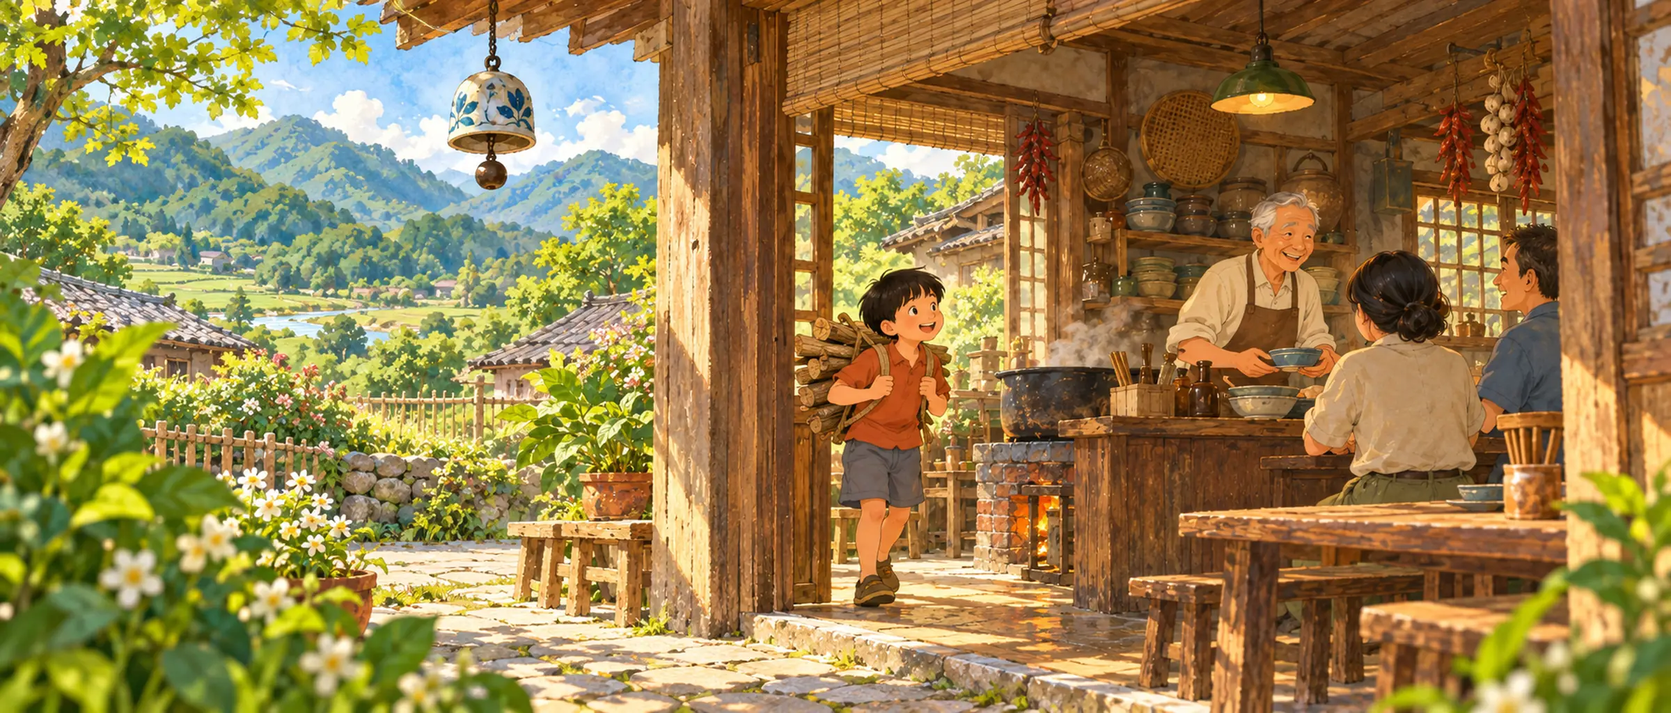
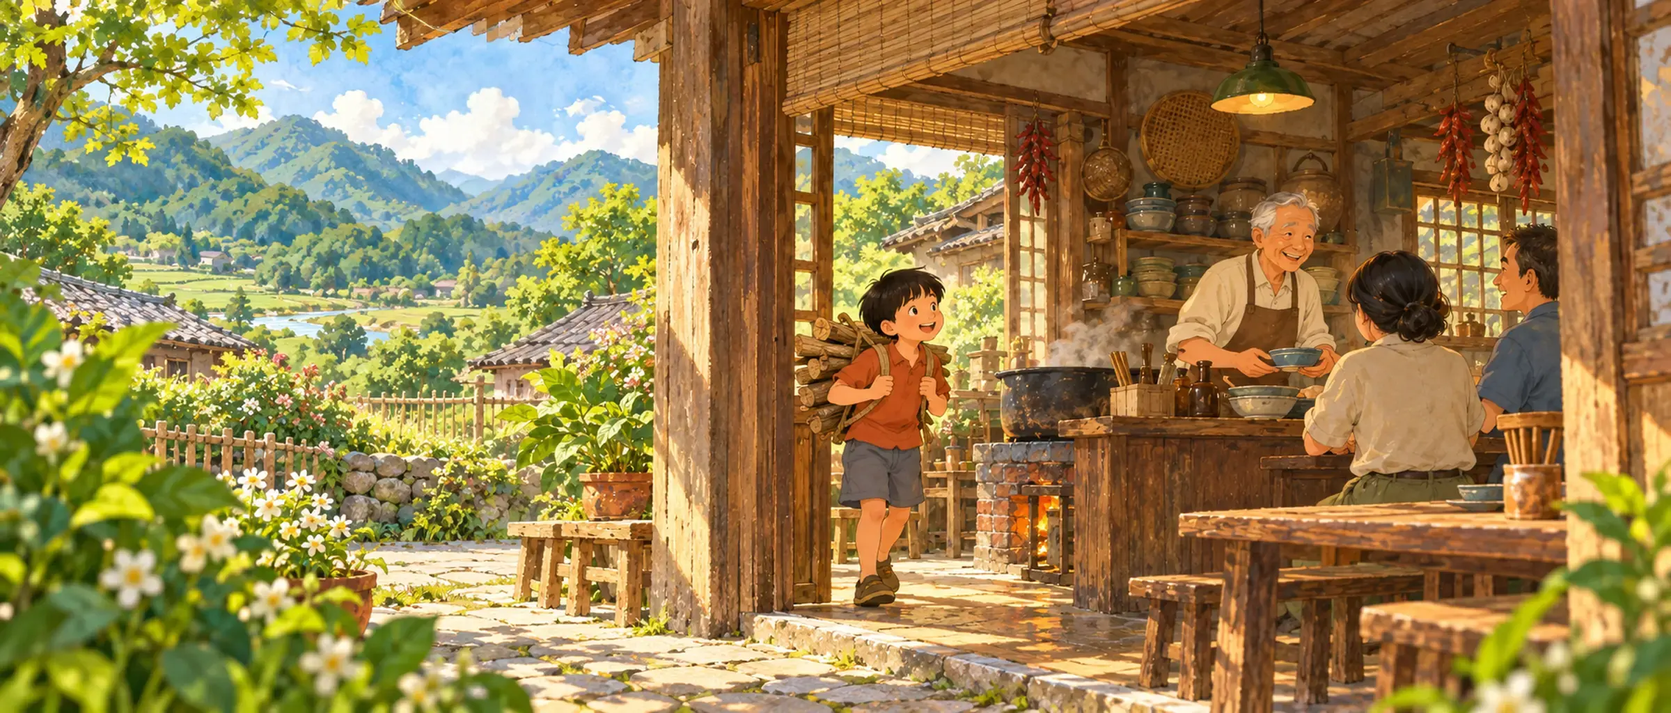
feat(mandarin): 第1幕點風鈴有風吹、陶鈴阻尼擺動與合成鈴聲（Codex，Claude 驗收）

Changed region(s): [[0.25, 0.0, 0.3438, 0.2812]]

diff --git a/apps/mandarin/src/activities/firstPersonIllustrated.js b/apps/mandarin/src/activities/firstPersonIllustrated.js
@@ -1,3 +1,4 @@
+import { mountChimeWind } from './firstPersonChime.js';
 import { illustrationLayout } from './firstPersonLayout.js';
 import { mountOperation } from './firstPersonInteraction.js';
 import { FIRST_PERSON_ILLUSTRATIONS } from '../data/firstPersonLesson.js';
@@ -25,7 +26,8 @@ export async function mountFirstPersonScene(host, { phase, onProject, onMode, ca
       p.style.left = `${point[0] + (kind === 'fire' ? 0 : i - 2) * 1.1}%`; p.style.top = `${point[1]}%`; p.style.animationDelay = `${-i * .51}s`; effects.append(p);
     }
   }
-  const interaction = mountOperation(plane, { scene: phase, state: operation, changed: onOperation, chime: onChime, focus(x) { if(phase.act===4 && x===49)x=host.clientWidth/host.clientHeight<1.4?30:52; const iw=illustrationLayout(host.clientWidth,host.clientHeight).imageWidth; if(iw>host.clientWidth) { target=Math.max(0,Math.min(1,(iw*x/100-host.clientWidth/2)/(iw-host.clientWidth))); pan=target; render(); } }, heat(value) { effects.style.opacity = '1'; effects.style.setProperty('--heat', value); [...effects.children].forEach((el,i) => { const fire=el.classList.contains('fp-art-fire'); el.style.visibility = !fire && (value === 0 || (el.classList.contains('fp-art-bubble') && i % 5 >= Math.ceil(value * 5))) ? 'hidden' : ''; el.style.opacity=String(fire?Math.max(1/3,value):value); if(fire) el.style.scale=String(Math.max(1/3,value)); }); if(phase.act === 4) { images[0].style.opacity=String(value); images[1].style.opacity=String(1-value); images[0].style.transition=images[1].style.transition=(calm || media.matches)?'none':'opacity .8s ease'; } }, demonstrate(active) { images[0].style.opacity=active?'0':'1'; images[1].style.opacity=active?'1':'0'; } });
+  const wind = phase.act === 1 ? mountChimeWind(plane, base, () => calm || media.matches) : null;
+  const interaction = mountOperation(plane, { scene: phase, state: operation, changed: onOperation, chime() { wind?.blow(); onChime?.(); }, focus(x) { if(phase.act===4 && x===49)x=host.clientWidth/host.clientHeight<1.4?30:52; const iw=illustrationLayout(host.clientWidth,host.clientHeight).imageWidth; if(iw>host.clientWidth) { target=Math.max(0,Math.min(1,(iw*x/100-host.clientWidth/2)/(iw-host.clientWidth))); pan=target; render(); } }, heat(value) { effects.style.opacity = '1'; effects.style.setProperty('--heat', value); [...effects.children].forEach((el,i) => { const fire=el.classList.contains('fp-art-fire'); el.style.visibility = !fire && (value === 0 || (el.classList.contains('fp-art-bubble') && i % 5 >= Math.ceil(value * 5))) ? 'hidden' : ''; el.style.opacity=String(fire?Math.max(1/3,value):value); if(fire) el.style.scale=String(Math.max(1/3,value)); }); if(phase.act === 4) { images[0].style.opacity=String(value); images[1].style.opacity=String(1-value); images[0].style.transition=images[1].style.transition=(calm || media.matches)?'none':'opacity .8s ease'; } }, demonstrate(active) { images[0].style.opacity=active?'0':'1'; images[1].style.opacity=active?'1':'0'; } });
   // Only the next act is warmed. No global cache that keeps all four acts alive.
   const preloads = (FIRST_PERSON_ILLUSTRATIONS[phase.act + 1]?.images || []).map(file => { const img = new Image(); img.src = base + file; return img; });
   const reduced = () => calm || media.matches;
@@ -56,6 +58,8 @@ export async function mountFirstPersonScene(host, { phase, onProject, onMode, ca
   }
   function resume() {
     cancelAnimationFrame(frame); previous = 0;
+    if (document.hidden) wind?.stop();
+    else wind?.updateMotion();
     effects.classList.toggle('fp-art-still', reduced() || paused || document.hidden);
     if (reduced()) { pan = target; if (phase.act === 2) images.forEach((img, i) => { img.style.opacity = i ? '0' : '1'; });  }
     render(); if (!paused && !document.hidden) frame = requestAnimationFrame(tick);
@@ -70,7 +74,7 @@ export async function mountFirstPersonScene(host, { phase, onProject, onMode, ca
     observeAction() { resume(); },
     setOptions(options) { calm = Boolean(options.calm); paused = Boolean(options.paused); plane.inert = paused; resume(); },
     dispose() {
-      disposed = true; interaction.dispose(); cancelAnimationFrame(frame); resize.disconnect(); media.removeEventListener('change', resume); document.removeEventListener('visibilitychange', resume);
+      disposed = true; wind?.dispose(); interaction.dispose(); cancelAnimationFrame(frame); resize.disconnect(); media.removeEventListener('change', resume); document.removeEventListener('visibilitychange', resume);
       [...images, ...preloads].forEach(img => { img.onload = img.onerror = null; img.removeAttribute('src'); }); layer.remove(); host.classList.remove('is-illustrated', 'fp-image-failed');
     },
   };

diff --git a/apps/mandarin/src/activities/firstPersonChime.js b/apps/mandarin/src/activities/firstPersonChime.js
@@ -1,0 +1,74 @@
+// Gesture-only synthesis. A disabled effect never asks for an AudioContext.
+export function playChime(enabled, getAudio, random = Math.random) {
+  if (!enabled) return;
+  try {
+    const audio = getAudio();
+    if (!audio) return;
+    // Called synchronously in the click handler, including the first gesture.
+    audio.resume().catch(() => {});
+    const sources = [];
+    const now = audio.currentTime;
+    for (const [strike, level] of [[.16, 1], [.62, .62], [1.09, .34]]) {
+      const fundamental = 1250 + (random() - .5) * 90;
+      for (const [ratio, weight] of [[1, 1], [2.76, .36], [5.40, .16], [8.93, .07]]) {
+        const oscillator = audio.createOscillator(), gain = audio.createGain();
+        sources.push(oscillator);
+        oscillator.frequency.value = fundamental * ratio;
+        const start = now + strike;
+        gain.gain.setValueAtTime(.00001, start);
+        gain.gain.exponentialRampToValueAtTime(.045 * weight * level, start + .006);
+        gain.gain.exponentialRampToValueAtTime(.00001, start + 2);
+        oscillator.connect(gain); gain.connect(audio.destination);
+        oscillator.onended = () => { oscillator.disconnect(); gain.disconnect(); };
+        oscillator.start(start); oscillator.stop(start + 2.02);
+      }
+    }
+    const buffer = audio.createBuffer(1, Math.ceil(audio.sampleRate * 1.5), audio.sampleRate);
+    const data = buffer.getChannelData(0);
+    for (let i = 0; i < data.length; i++) data[i] = random() * 2 - 1;
+    const source = audio.createBufferSource(), filter = audio.createBiquadFilter(), gain = audio.createGain();
+    sources.push(source);
+    source.buffer = buffer; filter.type = 'bandpass'; filter.frequency.value = 750; filter.Q.value = 1;
+    gain.gain.setValueAtTime(.00001, now);
+    gain.gain.linearRampToValueAtTime(.012, now + .3);
+    gain.gain.exponentialRampToValueAtTime(.00001, now + 1.5);
+    source.connect(filter); filter.connect(gain); gain.connect(audio.destination);
+    source.onended = () => { source.disconnect(); filter.disconnect(); gain.disconnect(); };
+    source.start(now); source.stop(now + 1.5);
+    return () => { for (const node of sources) { try { node.stop(); node.disconnect(); } catch {} } };
+  } catch { /* Audio support must not block the operation. */ }
+}
+
+export const chimeMotion = reduced => reduced ? 'fp-chime-glow' : 'fp-wind-active';
+export function mountChimeWind(plane, base, reduced) {
+  const layer = document.createElement('div'); layer.className = 'fp-chime-weather';
+  layer.setAttribute('aria-hidden', 'true');
+  const bell = document.createElement('div'); bell.className = 'fp-ceramic-chime';
+  for (const part of ['shell', 'clapper']) {
+    const img = new Image(); img.src = base + 'sprites/chime.webp'; img.alt = ''; img.draggable = false;
+    img.className = `fp-chime-${part}`; bell.append(img);
+  }
+  layer.append(bell);
+  for (let i = 0; i < 3; i++) {
+    const streak = document.createElement('i'); streak.className = 'fp-wind-streak'; streak.style.setProperty('--i', i); layer.append(streak);
+  }
+  // Feathered, source-aligned foliage only: no people or architecture in these patches.
+  for (const [x,y,w,h] of [[0,0,20,17],[0,69,17,31],[0,38,8,25]]) {
+    const leaf = document.createElement('div'); leaf.className = 'fp-wind-foliage';
+    Object.assign(leaf.style, {left:`${x}%`, top:`${y}%`, width:`${w}%`, height:`${h}%`, backgroundImage:`url("${base}act1-entrance.webp")`, backgroundSize:`${10000/w}% ${10000/h}%`, backgroundPosition:`${x/(100-w)*100}% ${y/(100-h)*100}%`});
+    layer.append(leaf);
+  }
+  plane.append(layer);
+  let timer;
+  function stop() { clearTimeout(timer); layer.classList.remove('fp-wind-active','fp-chime-glow'); }
+  return {
+    blow() {
+      stop(); void layer.offsetWidth;
+      layer.classList.add(chimeMotion(reduced()));
+      timer = setTimeout(stop, reduced() ? 650 : 2500);
+    },
+    stop,
+    updateMotion() { if (reduced() && layer.classList.contains('fp-wind-active')) { layer.classList.remove('fp-wind-active'); layer.classList.add('fp-chime-glow'); } },
+    dispose() { stop(); layer.remove(); },
+  };
+}

diff --git a/apps/mandarin/src/activities/firstPersonInteraction.js b/apps/mandarin/src/activities/firstPersonInteraction.js
@@ -25,17 +25,17 @@ export function mountOperation(plane, { scene, state, changed, heat, demonstrate
   const base = `${(import.meta.env?.BASE_URL || '/')}assets/first-person/115AG3H04/sprites/`;
   const layer = document.createElement('div'); layer.className = 'fp-operation'; plane.append(layer);
   let selected = null, dragging = null, suppress = false, timer, busy = false, disposed = false;
-  const status = document.createElement('div'); status.className = 'fp-operation-status'; status.setAttribute('role','status');
+  const status = document.createElement('div'); status.className = 'fp-operation-status'; status.setAttribute('role','status'); status.setAttribute('aria-live','polite');
   const message = document.createElement('span'); status.append(message, SpeakButton({text:()=>message.textContent})); plane.parentElement.parentElement.append(status);
   const objects = [], targets = [];
   function item(label, sprite, x, y, action, width = 10, ratio = .5, target = false) {
     const el = document.createElement('button'); el.type='button'; el.className=`fp-object ${target ? 'fp-drop-target' : ''}`; el.setAttribute('aria-label',label); el.dataset.action=action;
     el.style.width=`${width}%`; el.style.aspectRatio=String(1/ratio); el.style.left=`${x}%`; el.style.top=`${y}%`;
-    if(sprite) { const img=new Image(); img.src=base+sprite+'.webp'; img.alt=''; img.draggable=false; img.onerror=()=>{ img.remove(); el.textContent=label; }; el.append(img); } else el.classList.add('fp-glow');
+    if(sprite) { const img=new Image(); img.src=base+sprite+'.webp'; img.alt=''; img.draggable=false; img.onerror=()=>{ img.remove(); el.textContent=label; }; el.append(img); } else if(action !== 'bell') el.classList.add('fp-glow');
     if(action.startsWith('wood-')) el.style.rotate=`${woodAngle(scene.act,Number(action.slice(-1))-1)}deg`;
     layer.append(el); const obj={el,x,y,action,label}; (target?targets:objects).push(obj);
     el.onclick=()=>{ if(suppress) return; if(target) drop(obj); else select(obj); };
-    if(!target) {
+    if(!target && action !== 'bell') {
       el.onpointerdown=e=>{ if(e.button!==0) return; if(busy || el.disabled || dragging)return; e.stopPropagation(); dragging={obj,id:e.pointerId,x:e.clientX,y:e.clientY,moved:false,...scoopGesture({}, {x:(e.clientX-plane.getBoundingClientRect().left)/plane.getBoundingClientRect().width*100,y:(e.clientY-plane.getBoundingClientRect().top)/plane.getBoundingClientRect().height*100})}; el.setPointerCapture(e.pointerId); layer.classList.add('is-dragging'); if(scene.act===2 && dragging.dipped)setSprite(obj,'ladle-full'); };
       el.onpointermove=e=>{
         if(!dragging || dragging.id!==e.pointerId)return;
@@ -66,9 +66,9 @@ export function mountOperation(plane, { scene, state, changed, heat, demonstrate
   function feedback(text){ message.textContent=text; }
   function commit(action){ if(!operate(scene,state,action)){ feedback('慢慢來，先完成目前的步驟。'); return false; } selected=null; if(scene.act===1)focus?.(operationComplete(scene,state)?61:33); if(scene.act===4 && action==='demo')focus?.(innerWidth/innerHeight>=1.4?52:73); heat(heatFor(scene,state)); changed(); render(); return true; }
   function select(o){
+    if(scene.act===1 && o.action==='bell'){ chime(); if(state.step===0) commit('bell'); feedback('風吹過，風鈴響了'); return; }
     if(busy || operationComplete(scene,state))return;
     if(scene.act===2){ scoopAnimation(o); return; }
-    if(scene.act===1 && o.action==='bell'){ chime(); o.el.classList.remove('fp-swing'); void o.el.offsetWidth; o.el.classList.add('fp-swing'); if(state.step===0) commit('bell'); else feedback('風鈴輕輕擺動。'); return; }
     if(scene.act===3){ if(o.action==='pot') feedback('水面還在冒泡。'); if(o.action==='ladle') feedback('你剛才用勺子舀了，水仍在滾。'); if(commit(o.action) && o.action==='fire') { layer.classList.add('fp-discovery'); feedback('你找到了鍋下的線索。'); } return; }
     if(scene.act===4 && state.step===0){
       if(timer) return; demonstrate(true); feedback('先看師傅使用工具，再換你試試。');

diff --git a/apps/mandarin/src/styles/first-person.css b/apps/mandarin/src/styles/first-person.css
@@ -219,3 +219,30 @@ body.fp-immersive #main-content { width:100%; max-width:none; margin:0; padding:
 .fp-card-feedback { white-space:normal; overflow-wrap:anywhere; }
 .fp-page .fp-operation-status { height:44px; min-height:44px; white-space:normal; overflow:auto; }
 .fp-page .fp-operation-status>span { overflow:visible; white-space:normal; }
+/* First act only: a source-aligned ceramic chime and brief gust. */
+.fp-chime-weather { position:absolute; inset:0; pointer-events:none; z-index:3; }
+.fp-ceramic-chime { position:absolute; left:26.5%; top:0; width:6%; height:27.1484375%; transform-origin:50% 0; }
+.fp-ceramic-chime img { position:absolute; inset:0; width:100%; height:100%; }
+.fp-chime-shell { clip-path:inset(0 0 19% 0); }
+.fp-chime-clapper { clip-path:inset(81% 0 0 0); transform-origin:50% 79%; }
+.fp-wind-active .fp-ceramic-chime { animation:fp-ceramic-swing 2.5s linear; }
+.fp-wind-active .fp-chime-clapper { animation:fp-clapper-lag 2.5s linear; }
+@keyframes fp-ceramic-swing { 0%,100% { rotate:0deg; } 6.4% { rotate:-18deg; } 15% { rotate:0deg; } 24.8% { rotate:13deg; } 34% { rotate:0deg; } 43.6% { rotate:-9deg; } 54% { rotate:0deg; } 64% { rotate:5deg; } 76% { rotate:-3deg; } 88% { rotate:1deg; } }
+@keyframes fp-clapper-lag { 0%,100% { rotate:0deg; } 9% { rotate:9deg; } 28% { rotate:-7deg; } 47% { rotate:5deg; } 68% { rotate:-3deg; } 90% { rotate:1deg; } }
+.fp-wind-streak { position:absolute; left:0; top:calc(28% + var(--i)*13%); width:18%; height:5%; border-top:2px solid #fff8e3; border-radius:50%; filter:blur(1px); opacity:0; }
+.fp-wind-active .fp-wind-streak { animation:fp-gust 1.8s ease-out both; animation-delay:calc(var(--i)*.18s); }
+@keyframes fp-gust { 0% { opacity:0; transform:translateX(-110%); } 22% { opacity:.38; } 75% { opacity:.2; } 100% { opacity:0; transform:translateX(470%); } }
+.fp-wind-foliage { position:absolute; opacity:0; transform-origin:50% 100%; mask-image:linear-gradient(to right,#000 65%,transparent),linear-gradient(to bottom,#000 65%,transparent); mask-composite:intersect; }
+.fp-wind-active .fp-wind-foliage { animation:fp-foliage-gust 2.5s ease-in-out; }
+@keyframes fp-foliage-gust { 0%,100% { opacity:0; transform:skewX(0); } 15%,45% { opacity:1; transform:skewX(1deg); } 30%,65% { opacity:1; transform:skewX(-.7deg); } 85% { opacity:1; transform:skewX(.3deg); } }
+.fp-operation .fp-object[data-action="bell"] { animation:none; filter:none; cursor:pointer; }
+.fp-operation .fp-object[data-action="bell"]::after { display:none; }
+.fp-chime-glow .fp-ceramic-chime { animation:fp-chime-flash .65s ease-out; }
+@keyframes fp-chime-flash { 30% { filter:drop-shadow(0 0 12px #fff0ab); } 100% { filter:none; } }
+/* The existing calm blanket disables animations; a static brief glow still appears. */
+.fp-calm .fp-chime-glow .fp-ceramic-chime { filter:drop-shadow(0 0 12px #fff0ab); }
+@media(prefers-reduced-motion:reduce) {
+ .fp-chime-weather .fp-wind-streak,.fp-chime-weather .fp-wind-foliage { display:none; }
+ .fp-chime-weather .fp-ceramic-chime,.fp-chime-weather .fp-chime-clapper { animation:none; }
+ .fp-chime-glow .fp-ceramic-chime { filter:drop-shadow(0 0 12px #fff0ab); }
+}

diff --git a/apps/mandarin/src/pages/FirstPersonPage.js b/apps/mandarin/src/pages/FirstPersonPage.js
@@ -1,3 +1,4 @@
+import { playChime } from '../activities/firstPersonChime.js';
 import { moodFor, subtitlePlan, subtitlesForStep, createCardOrder } from '../activities/firstPersonPresentation.js';
 import { operationComplete } from '../activities/firstPersonInteraction.js';
 import { h, clear } from '../utils/dom.js';
@@ -26,7 +27,7 @@ export function FirstPersonPage(lesson) {
   try { const s = JSON.parse(localStorage.getItem(PREF_KEY)); prefs = { sound: s?.sound === true, calm: s?.calm === true }; } catch { /* 預設 */ }
   let world, generation = 0, disposed = false, replay = null, lastClue = null, feedback = '', wrong = false, readingVisible = false;
   let subtitle = null, subtitleTimer, subtitleAfter, subtitleQueue = [];
-  let saved = true, audio, ambientGain, ambientSource, modal, observationTimer;
+  let stopChime, saved = true, audio, ambientGain, ambientSource, modal, observationTimer;
   let scene, state, sources, currentView, idleTimer, teacherAccess = false, actionQuestion = null;
   const reduce = matchMedia('(prefers-reduced-motion: reduce)');
   const rootBody = h('div', { class: 'fp-shell' }); root.append(rootBody);
@@ -35,7 +36,7 @@ export function FirstPersonPage(lesson) {
   function savePrefs() { try { localStorage.setItem(PREF_KEY, JSON.stringify(prefs)); } catch { /* 這次仍生效 */ } }
   function sound() {
     const enabled = prefs.sound && !document.hidden && !modal?.open;
-    if (!enabled) { if (ambientGain && audio) ambientGain.gain.setTargetAtTime(0, audio.currentTime, .15); return; }
+    if (!enabled) { stopChime?.(); stopChime = null; if (ambientGain && audio) ambientGain.gain.setTargetAtTime(0, audio.currentTime, .15); return; }
     try {
       const AC = window.AudioContext || window.webkitAudioContext; if (!AC) return;
       audio ||= new AC(); audio.resume().catch(() => {});
@@ -49,7 +50,11 @@ export function FirstPersonPage(lesson) {
       ambientGain.gain.setTargetAtTime(scene?.id === 'root' ? .008 : scene?.id === 'welcome' ? .005 : .022, audio.currentTime, .5);
     } catch { /* 音訊不影響學習 */ }
   }
-  function chime() { if (!prefs.sound) return; try { const AC=window.AudioContext || window.webkitAudioContext; audio ||= new AC(); audio.resume().catch(()=>{}); const osc=audio.createOscillator(), gain=audio.createGain(); osc.frequency.value=1320; gain.gain.setValueAtTime(.035,audio.currentTime); gain.gain.exponentialRampToValueAtTime(.001,audio.currentTime+.7); osc.connect(gain); gain.connect(audio.destination); osc.start(); osc.stop(audio.currentTime+.7); } catch {} }
+  function chime() { stopChime?.(); stopChime = playChime(prefs.sound, () => {
+    const AC = window.AudioContext || window.webkitAudioContext;
+    if (!AC) return null;
+    return audio ||= new AC();
+  }); }
   function updateMotion() { root.classList.toggle('fp-calm', calm()); world?.setOptions?.({ calm: calm(), paused: Boolean(modal?.open || subtitle || root.querySelector('.fp-question-cards')) }); sound(); }
   function destroyWorld() { generation++; world?.dispose(); world = null; }
   function close() {

diff --git a/apps/mandarin/docs/first-person-IMPL-LOG.md b/apps/mandarin/docs/first-person-IMPL-LOG.md
@@ -317,3 +317,41 @@ CF試玩、實機效能／朗讀／音量、瀏覽器截圖與學生理解成效
 7. 每幕檢查字幕不遮操作、無水平捲動、無console錯誤或外部請求；返回、重玩、重新整理及離頁清理正常。
 
 **直向視窗限制**：保持2400×1024底圖滿版cover時，375×812與820×1180無法同時容納分居x28%與x74%的康康和爐口。本輪窄視窗先聚焦康康，示範後聚焦爐口，仍可環顧。這項「三者同時入鏡」尚未全尺寸達成；若要求直向也同框，需要另行授權改底圖人物配置或cover規格，本單沒有變更版面。Claude須核對初始視角與移動手感，不能標成全尺寸同框已驗收。
+
+
+## 風鈴（2026-10-22）
+
+本單只改檔，未執行任何 git 指令、未開 Chrome、未提交／推送／部署。教材內容與 version 8、正式密文及正常密碼流程不變。滿版 cover、極簡介面、第一幕原本熱點座標與其他幕的行為／位置保持原設定。
+
+### 素材與定位
+
+- `public/assets/first-person/115AG3H04/act1-entrance.webp`：2400×1024，297,640 bytes（290.7 KiB）。用內建 imagegen 圖片編輯產出無風鈴補景，但不採用整張重繪：僅合成原風鈴／吊繩附近天空與遠山的局部補景，邊緣漸融；其餘沿用原畫，最後 WebP 壓縮。沒有改構圖、人物或建築。
+- `sprites/chime.webp`：144×278，29,882 bytes（29.2 KiB），透明且無損。另有 imagegen 透明抽取候選，但為確保外觀與角度，實際採用原畫輪廓裁切，保留白底藍葉紋、深色鈴舌與頂端吊繩，沒有採用候選重繪。
+- 原畫備份：repo 外 `~/mandarin-work/first-person-samples/final/act1-entrance-before-chime.webp`；實際 OneDrive 可寫路徑下同檔名。無風鈴 PNG 與透明裁切 PNG 也保存在同一個 final 目錄。原圖與候選原始檔不進 repo。
+- `firstPersonChime.js` 的專用圖層把 sprite 疊在原圖 x=636、y=0、寬144、高278的位置（left 26.5%、width 6%、height 27.1484375%）。主體與鈴舌是同一張圖的互補裁切，不重複顯示。既有 x29.5%、y17% 點擊區不變，取消風鈴拖曳，支點固定在吊繩頂端。
+- 舊 `sprites/bell.webp` 保留為未使用素材，執行程式與素材測試改用陶瓷 `chime.webp`。
+- 生圖提示：底圖為「只移除 x29.5%、y0–27% 陶瓷風鈴、鈴舌與垂直吊繩，以自然天空／遠山補齊；其餘構圖、人物、建築與色調不變」；透明候選為「抽取同一個藍葉白陶鈴、全吊繩及深色鈴舌，透明背景，保留原角度比例」。最終依上述局部補景及原畫裁切使用。
+
+### 互動、聲音與無障礙
+
+- 只有第一幕建立風鈴風場：3 道半透明弧形風痕向右飄過；3 個原圖對齊的局部葉片／花草疊層小幅 skew 並以遮罩淡化邊界，範圍均避開人物與建築。
+- 點擊後約2.5秒阻尼擺動，先向風的方向擺18度，再依13／9／5／3／1度收斂；鈴舌相對延遲。沒有常駐風場或風鈴浮動。重點風鈴會重播，不重複推進操作進度；可在第一幕操作完成後再次觸發。
+- `playChime` 先檢查音效開關，關閉時不呼叫取得 AudioContext 的函式。啟用時在 click 使用者手勢內同步呼叫 resume；約1250 Hz（每敲±45 Hz），泛音×2.76／5.40／8.93；在0.16／0.62／1.09秒接近最大擺角時敲擊，音量1／0.62／0.34，每敲快起音後約2秒指數衰減。聲音尾韻可比2.5秒動畫多約0.6秒。
+- 白噪音 band-pass 750 Hz、Q=1，約1.5秒淡入淡出，增益小於首敲。全部即時合成、沒有外部音檔。重播先停止前次音效；關閉聲音／離頁／背景切換沿用頁面音訊清理，音訊節點播放完成會斷線。
+- 系統減少動態或既有減少動畫設定：不播放風痕、花草 skew 或擺動，改約650ms風鈴光暈，音效仍遵照開關。播放中切成減少動態也會取消風場。操作的 aria-live polite 提示「風吹過，風鈴響了」，沿用朗讀按鈕。
+
+### 驗證與 Claude 實玩交接
+
+- `npm run validate`：通過；55課資料與正式課文明碼外洩檢查通過。
+- 所有 `scripts/test-first-person*.mjs`（8支）：通過。新增實際音訊排程替身檢查（靜音不取得context、手勢同步resume、三次敲擊與遞減音量、頻率／風聲）、實際減少動態圖層分支／切換／dispose、WebP存在與大小／透明限制。更新素材測試為chime，手勢測試驗證不可拖走／重播不重複計步。
+- 全站88支 `scripts/test-*.mjs` 通過（0失敗）；最終 `npm run build`、`npm run check-dist`（含check-assets）、`npm run build:preview` 均通過。沒有用數值或靜態測試代替瀏覽器視覺與音訊驗收。
+
+Claude 請以正常教室密碼進入 `#/lesson/115AG3H04/explore`，在1366×900、820×1180、375×812實玩第一幕，並確認：
+
+1. **位置吻合**：對照repo外原圖，靜止時只有一個陶瓷風鈴；吊繩頂端、大小、角度與邊緣貼合，無白邊／天空殘片／補景接縫；橫向環顧與resize仍貼合，cover及極簡介面保持原樣。
+2. **擺動自然度**：風由左來，主體以繩頂為支點先大後小；鈴舌稍慢，花草只輕動，人物／建築不扭曲；字幕開始時風鈴仍能完整播完，快速重點與完成後重點不多計進度。
+3. **鈴聲**：開啟既有音效後首次點擊能響，2–3下清亮且漸弱，無爆音；與最大擺角相近，風聲較小。音效關閉時只有畫面效果；播放中關閉音效、離頁或切背景能停止聲音。
+4. **風痕**：柔和、半透明、左向右，2.5秒內收束，不擋操作；前景遮罩沒有重影或接縫。
+5. **減少動態／操作**：系統與站內減少動畫都只出現短暫光暈，沒有風痕／搖晃；聲音遵照開關；鍵盤Enter／空白可觸發，讀屏能讀出提示。確認其他三幕操作、字幕、物件位置未回歸。
+
+仍為待 CF／Claude 視覺與音效確認，不發布 main。

diff --git a/HANDOFF.md b/HANDOFF.md
@@ -1,5 +1,12 @@
 # 交接紀錄（最新的寫在最上面）
 
+## 2026-10-22｜家中 Mac｜Codex｜風鈴：待 Claude 實玩確認
+- 遵照本單只改檔，未執行任何 git 指令、未開Chrome、未提交／推送／部署。
+- 第一幕底圖局部移除陶瓷風鈴並補天空／遠山（290.7KiB），原畫透明裁切chime.webp（29.2KiB）原位置疊回；原圖備份與PNG存repo外first-person-samples/final。舊竹管bell.webp不再使用。
+- 點風鈴觸發2.5秒左向右風痕、局部葉片輕動、吊繩頂端阻尼擺動與鈴舌延遲；WebAudio三敲陶瓷鈴及輕風聲，遵守音效開關／首次手勢resume；減少動態用短光暈，aria-live提示。保留cover、極簡介面、其他幕位置／行為與內容version 8。
+- validate、8支first-person測試、全站88支測試（0失敗）、build、check-dist／assets、build:preview通過。
+- 詳見apps/mandarin/docs/first-person-IMPL-LOG.md「風鈴」。Claude仍須三尺寸確認擺動自然度、鈴聲、風痕、靜止位置與邊緣吻合、減少動態／靜音／鍵盤及其他幕回歸；沒有宣稱瀏覽器視覺或音色驗收通過。不發布main。
+
 ## 2026-10-22｜家中 Mac｜Codex｜修正單2 v8：待 Claude 實玩確認
 - 本單覆蓋git流程：只改檔，全程未執行git、未開Chrome、未提交／推送／部署。
 - 只改apps/mandarin第一人稱探索、相關測試／文件與本交接。修正地面柴堆／單風鈴／勺子避臉、爐內三柴角度大小與爐外保留、逐根降量表及用心記住狀態、排序編號取消重排、完整回饋、不預告解說、快速拖曳端點／路徑判定、小火底圖與最低火焰。內容version 8。
